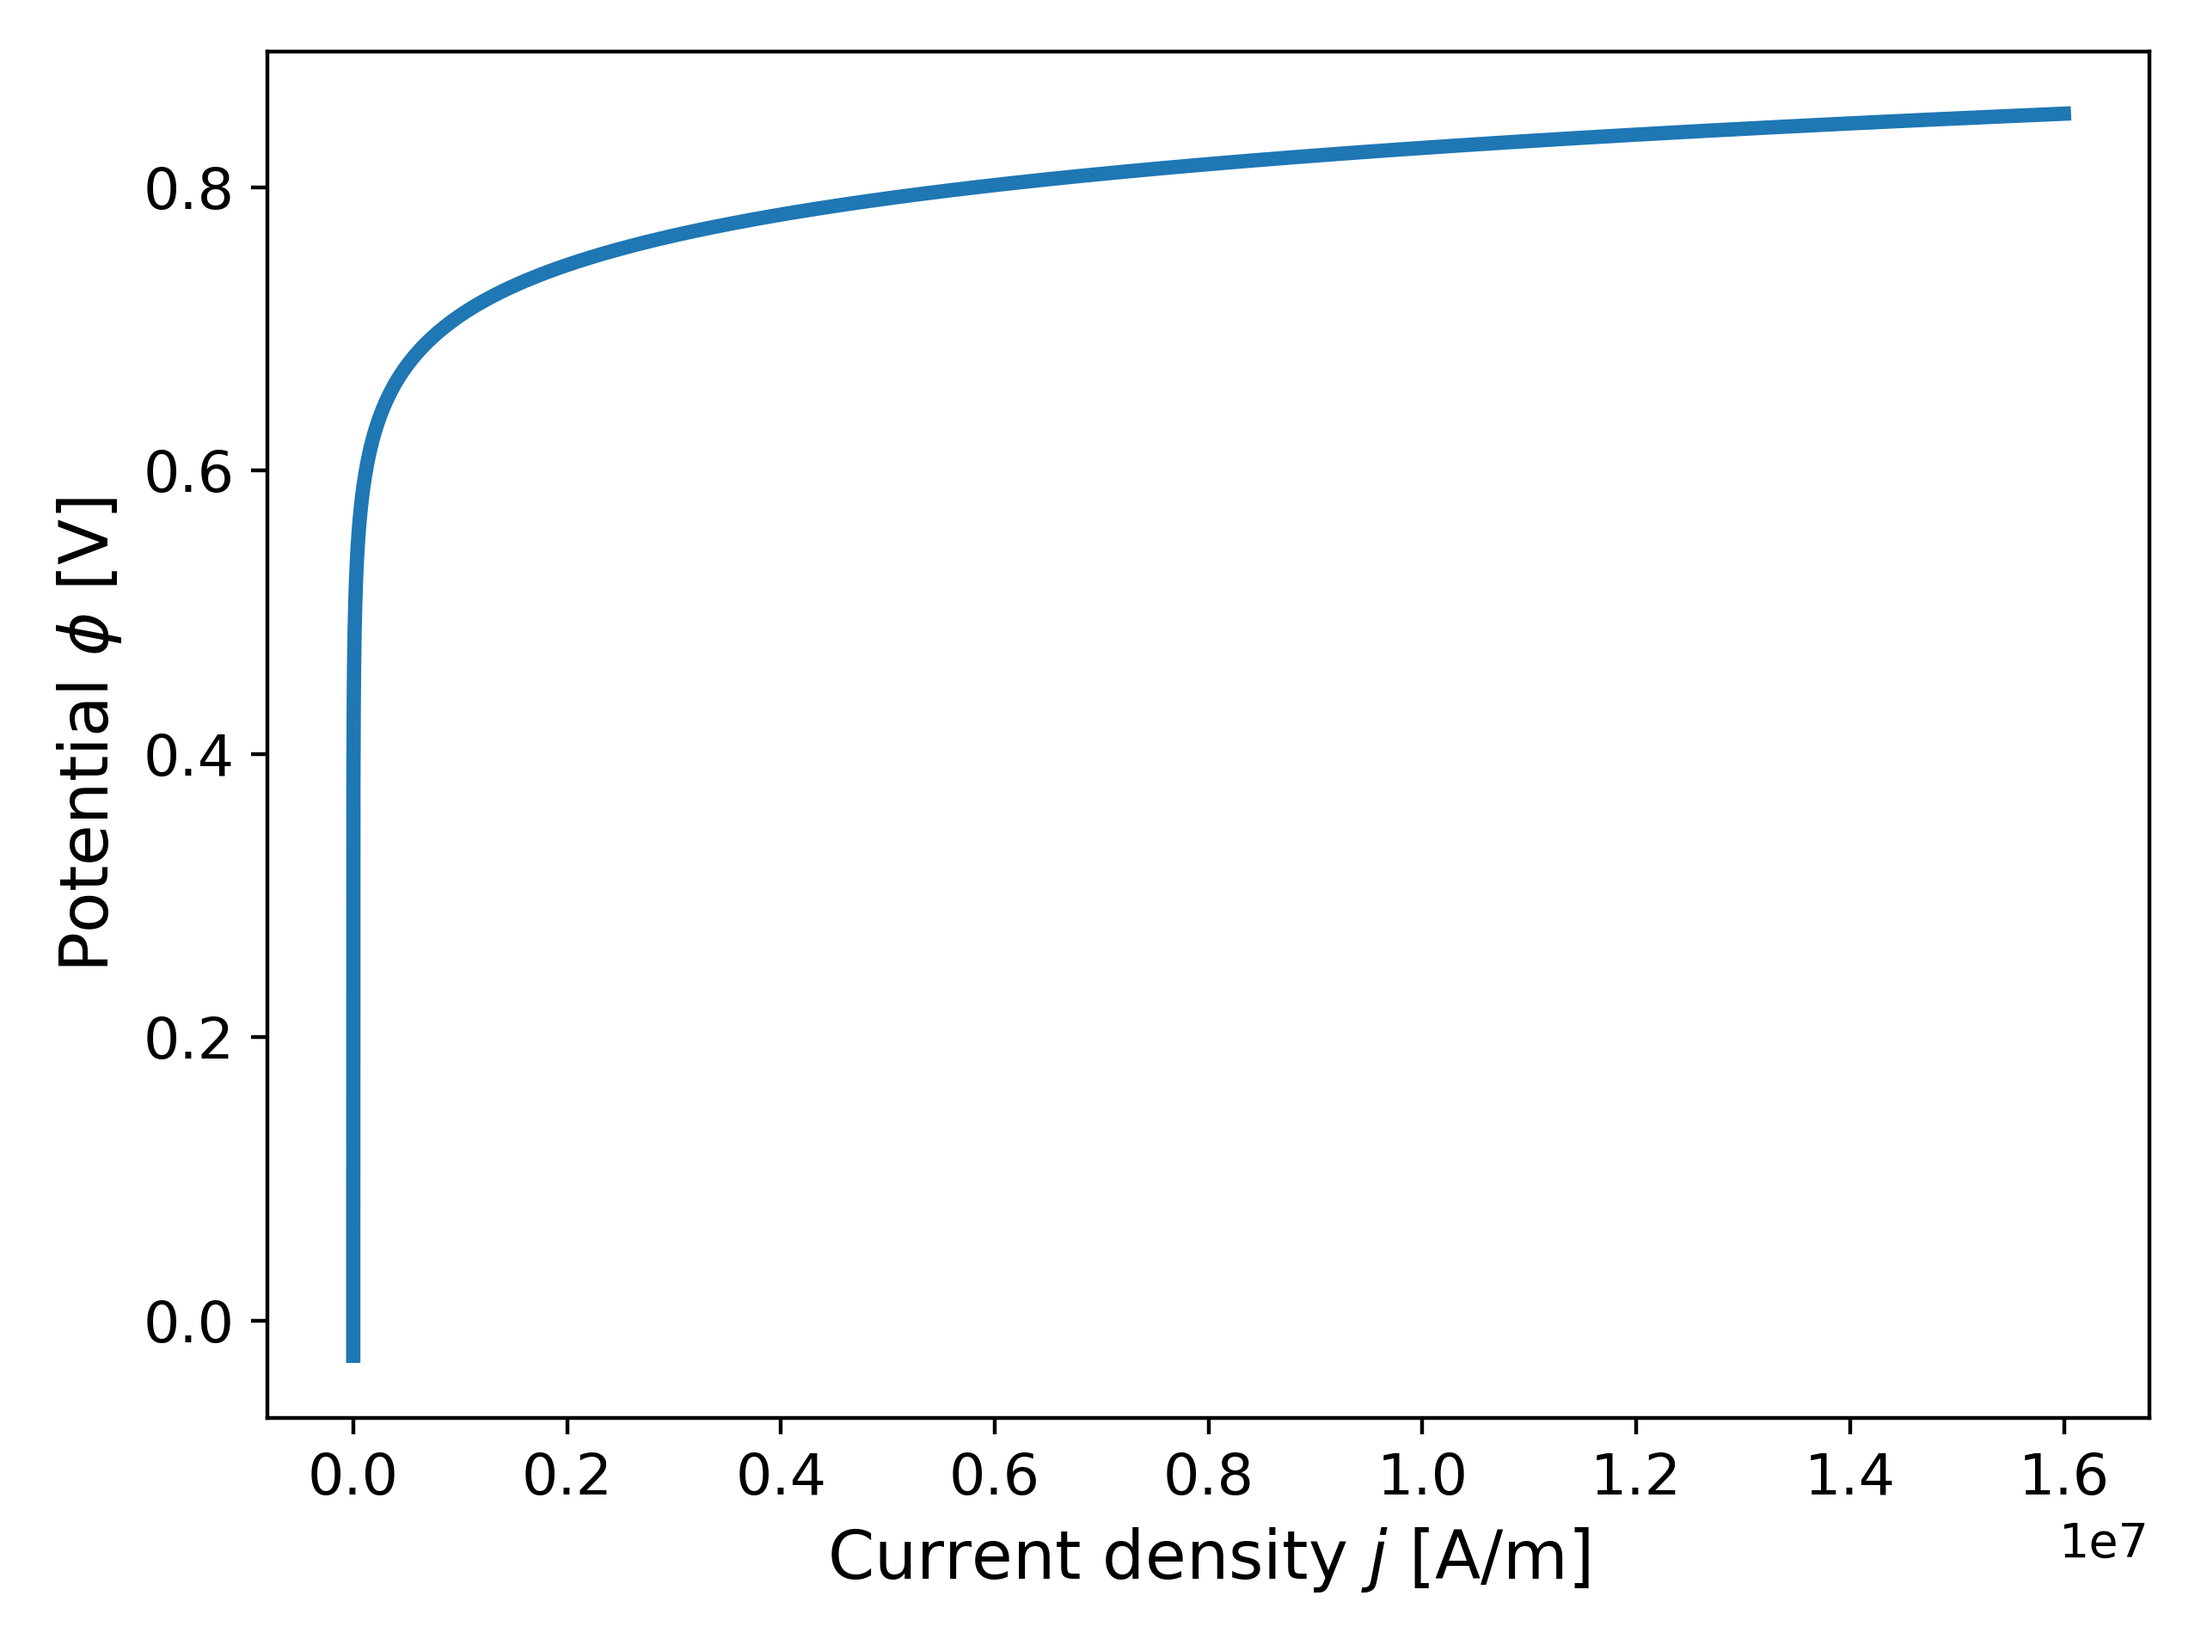
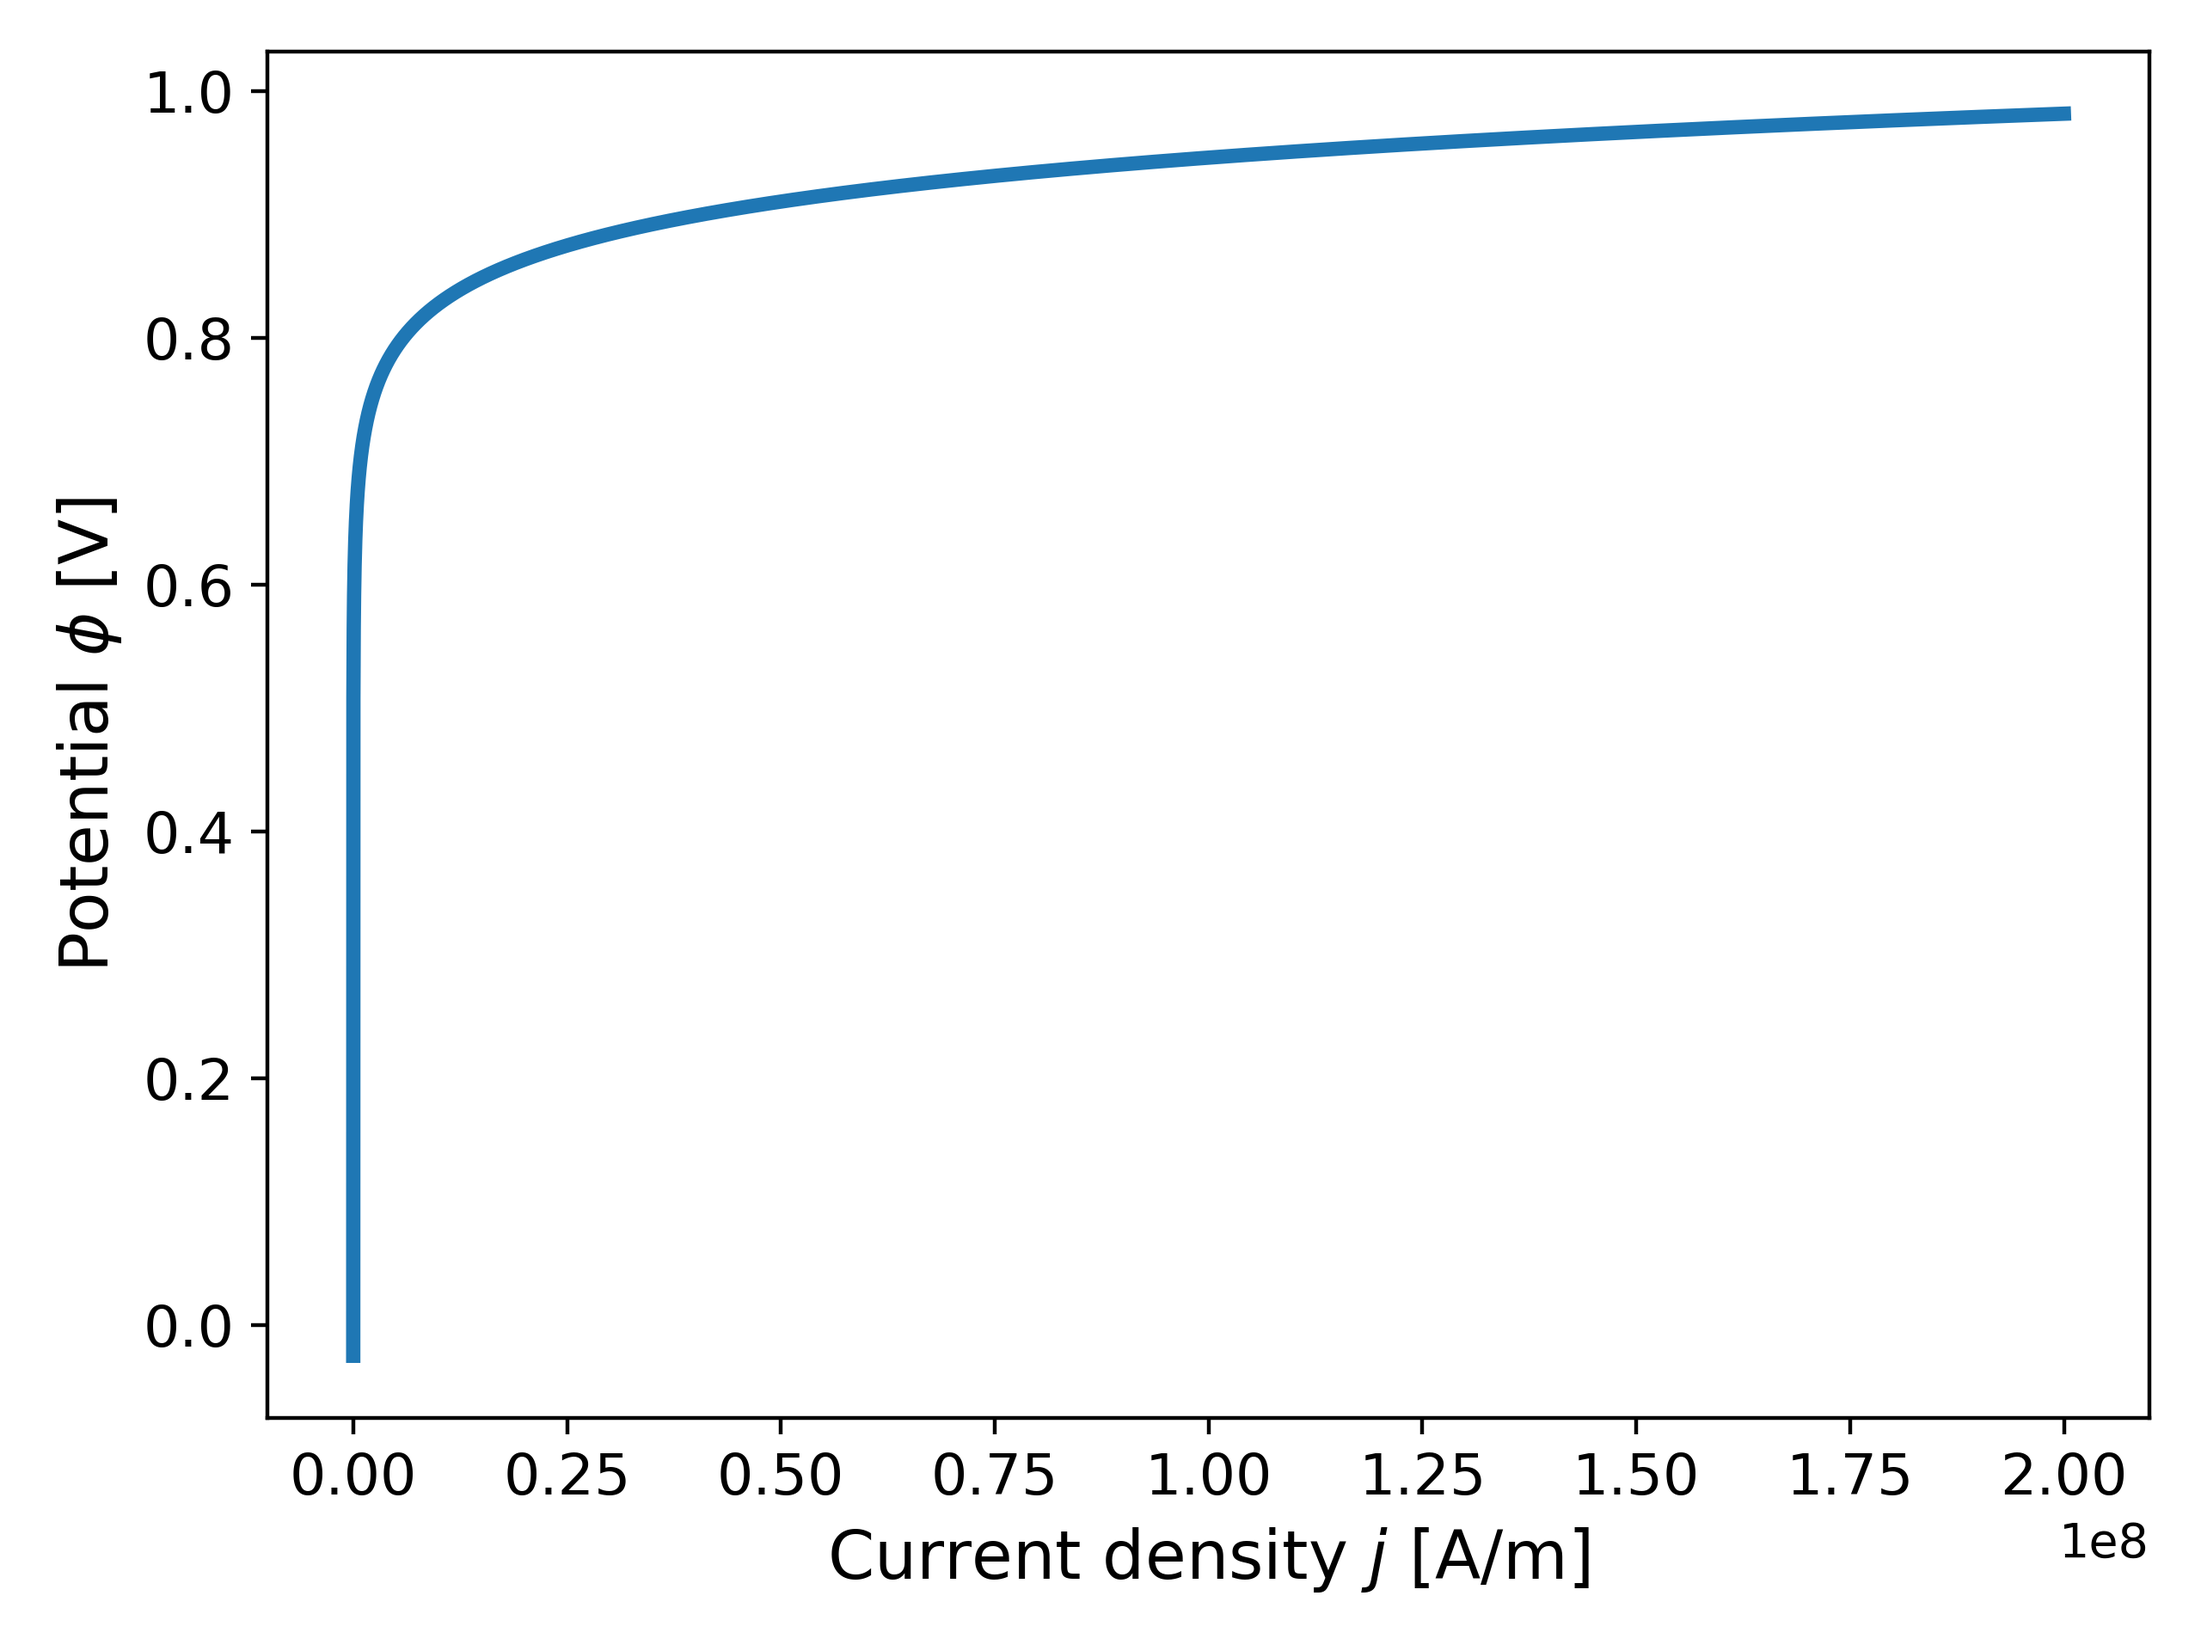
WIP: Newtons method

diff --git a/_talks/newtons_method.md b/_talks/newtons_method.md
@@ -147,7 +147,7 @@ In particular, for the case of $\alpha_a = 0.85$, the function $\phi(j)$ exhibit
 </div>
 
 <div align = "center">
- Figure 6. Plot showing the potential $\phi(j)$ as a function of the current density near $j = \phi(1)$. Here $\alpha_c = \alpha_a = 0.5$. Left: for $j \in [-1, 30]$. Right: for $j \in [-1, 1.6 \times 10^7]$.
+ Figure 6. Plot showing the potential $\phi(j)$ as a function of the current density near $j = \phi(1)$. Here $\alpha_c = \alpha_a = 0.5$. Left: for $j \in [-1, 30]$. Right: for $j \in [-1, 2 \times 10^8]$.
 </div>
 
 
